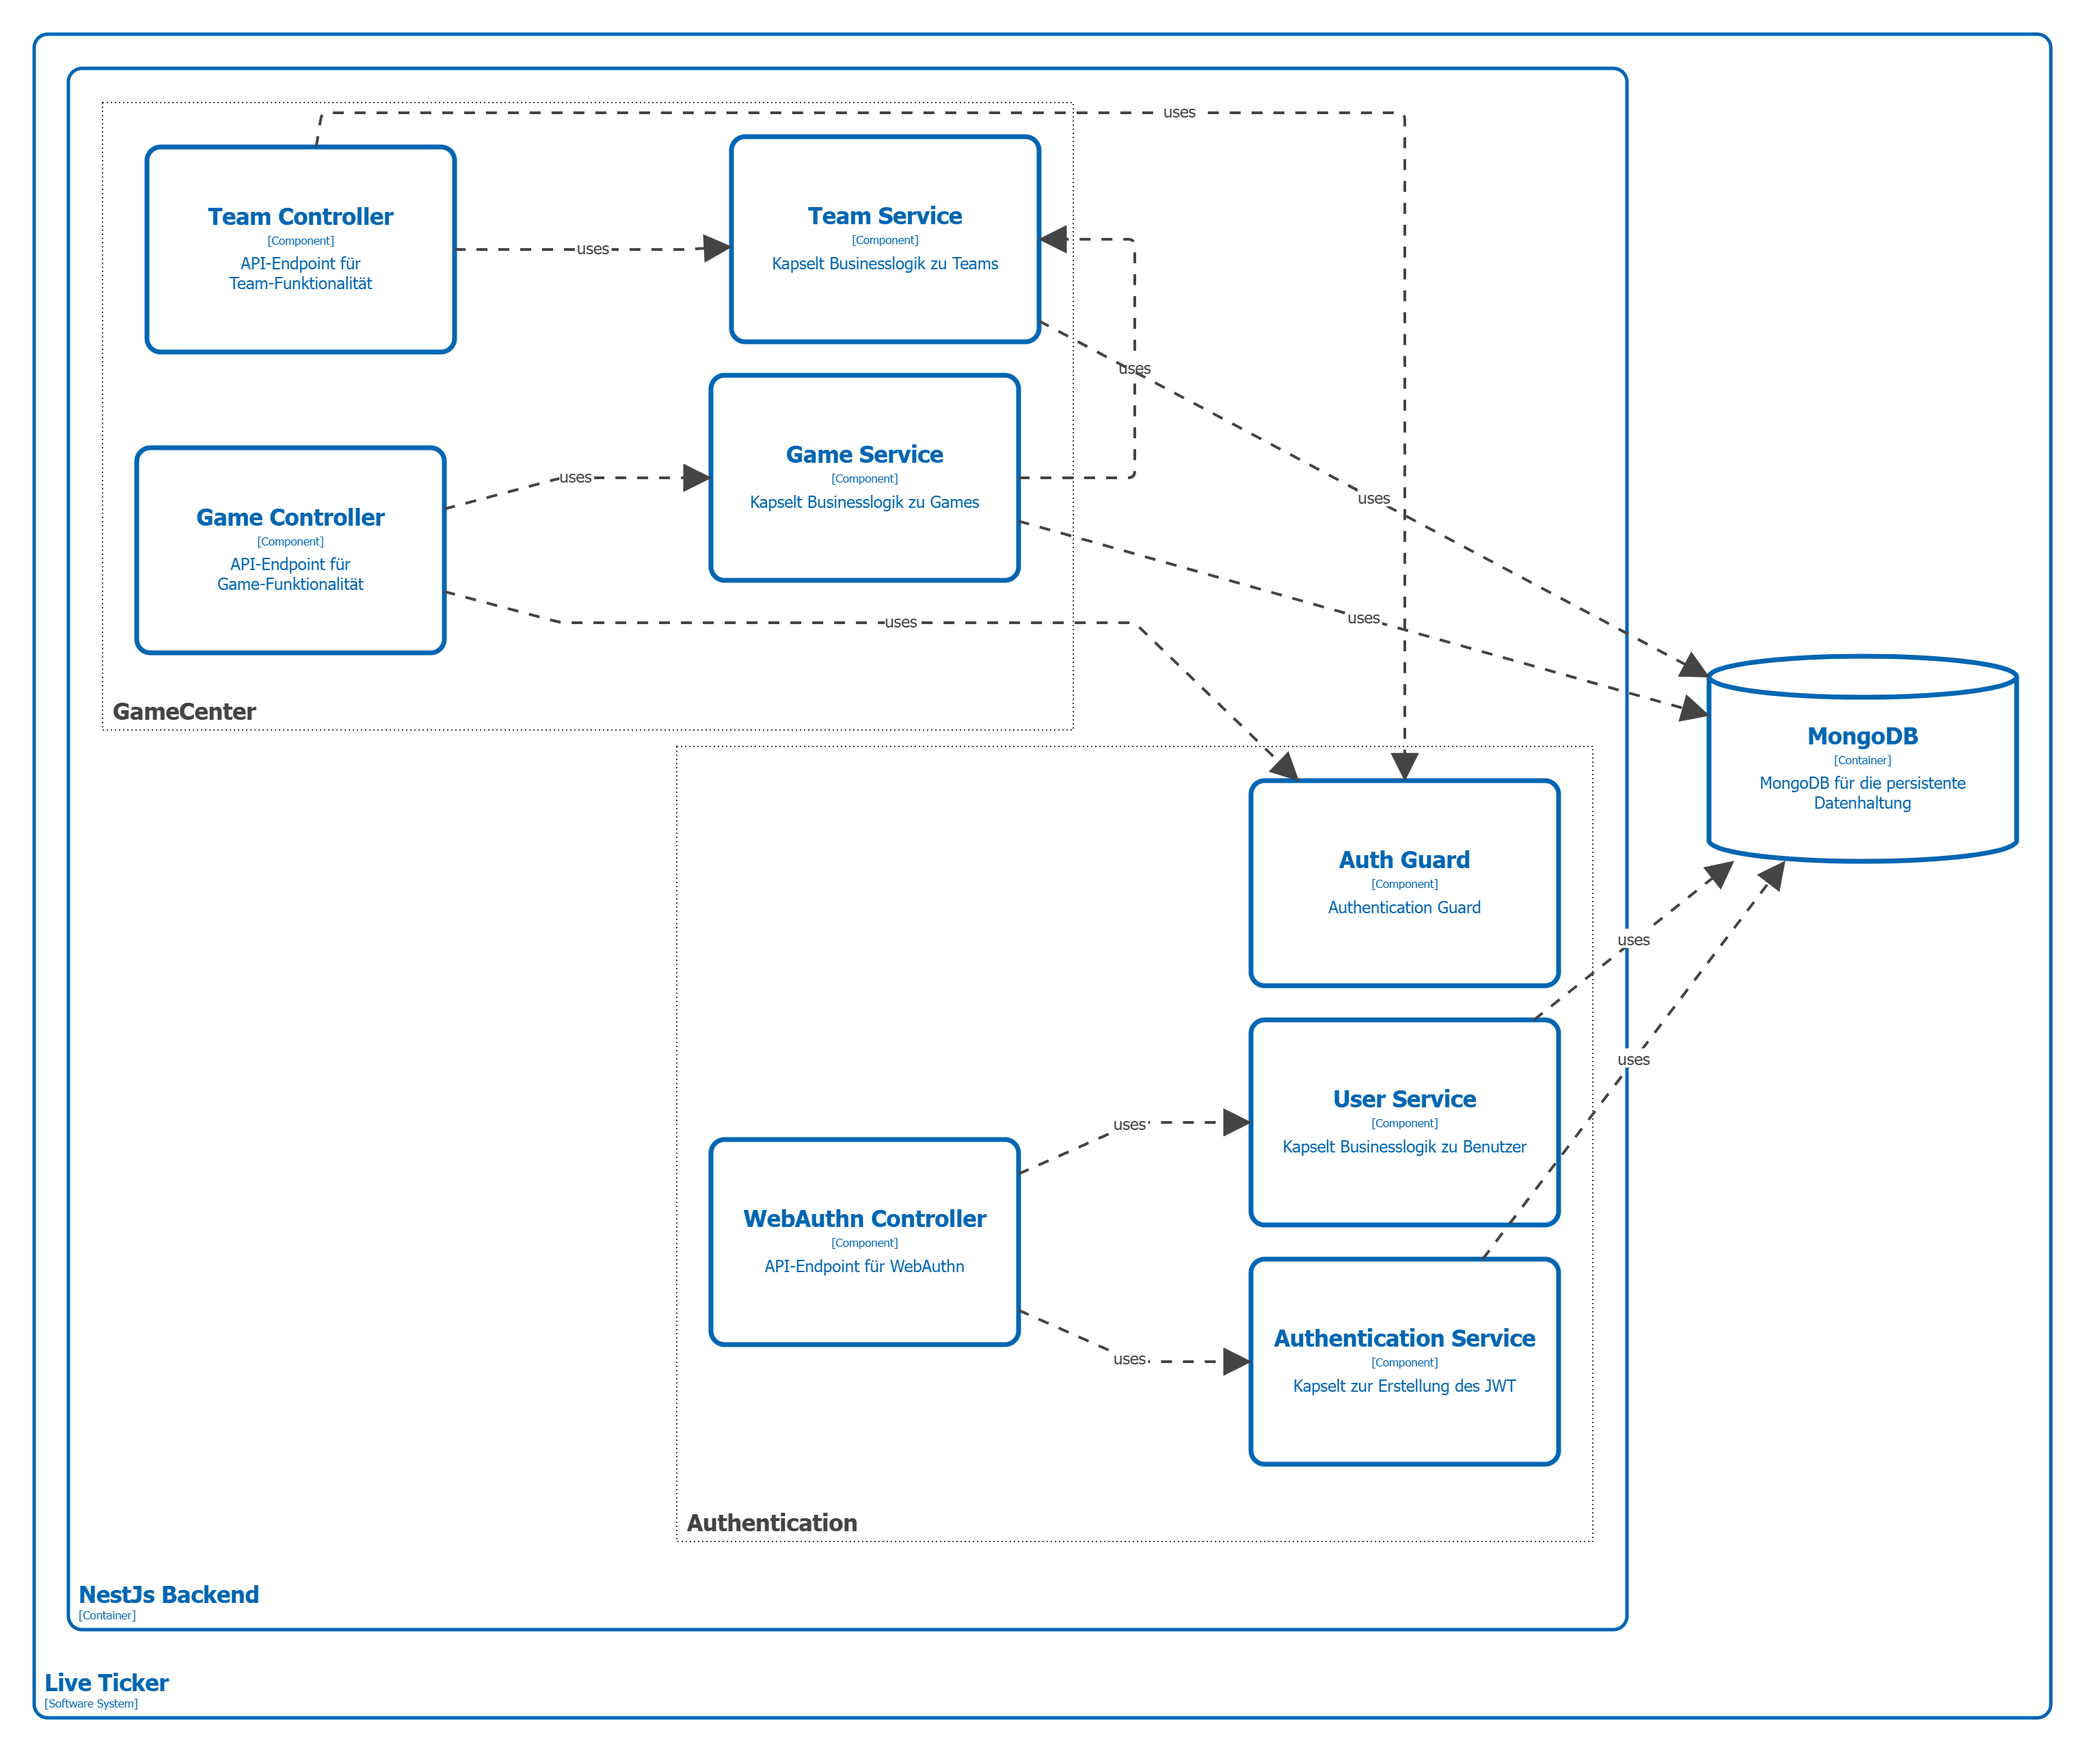
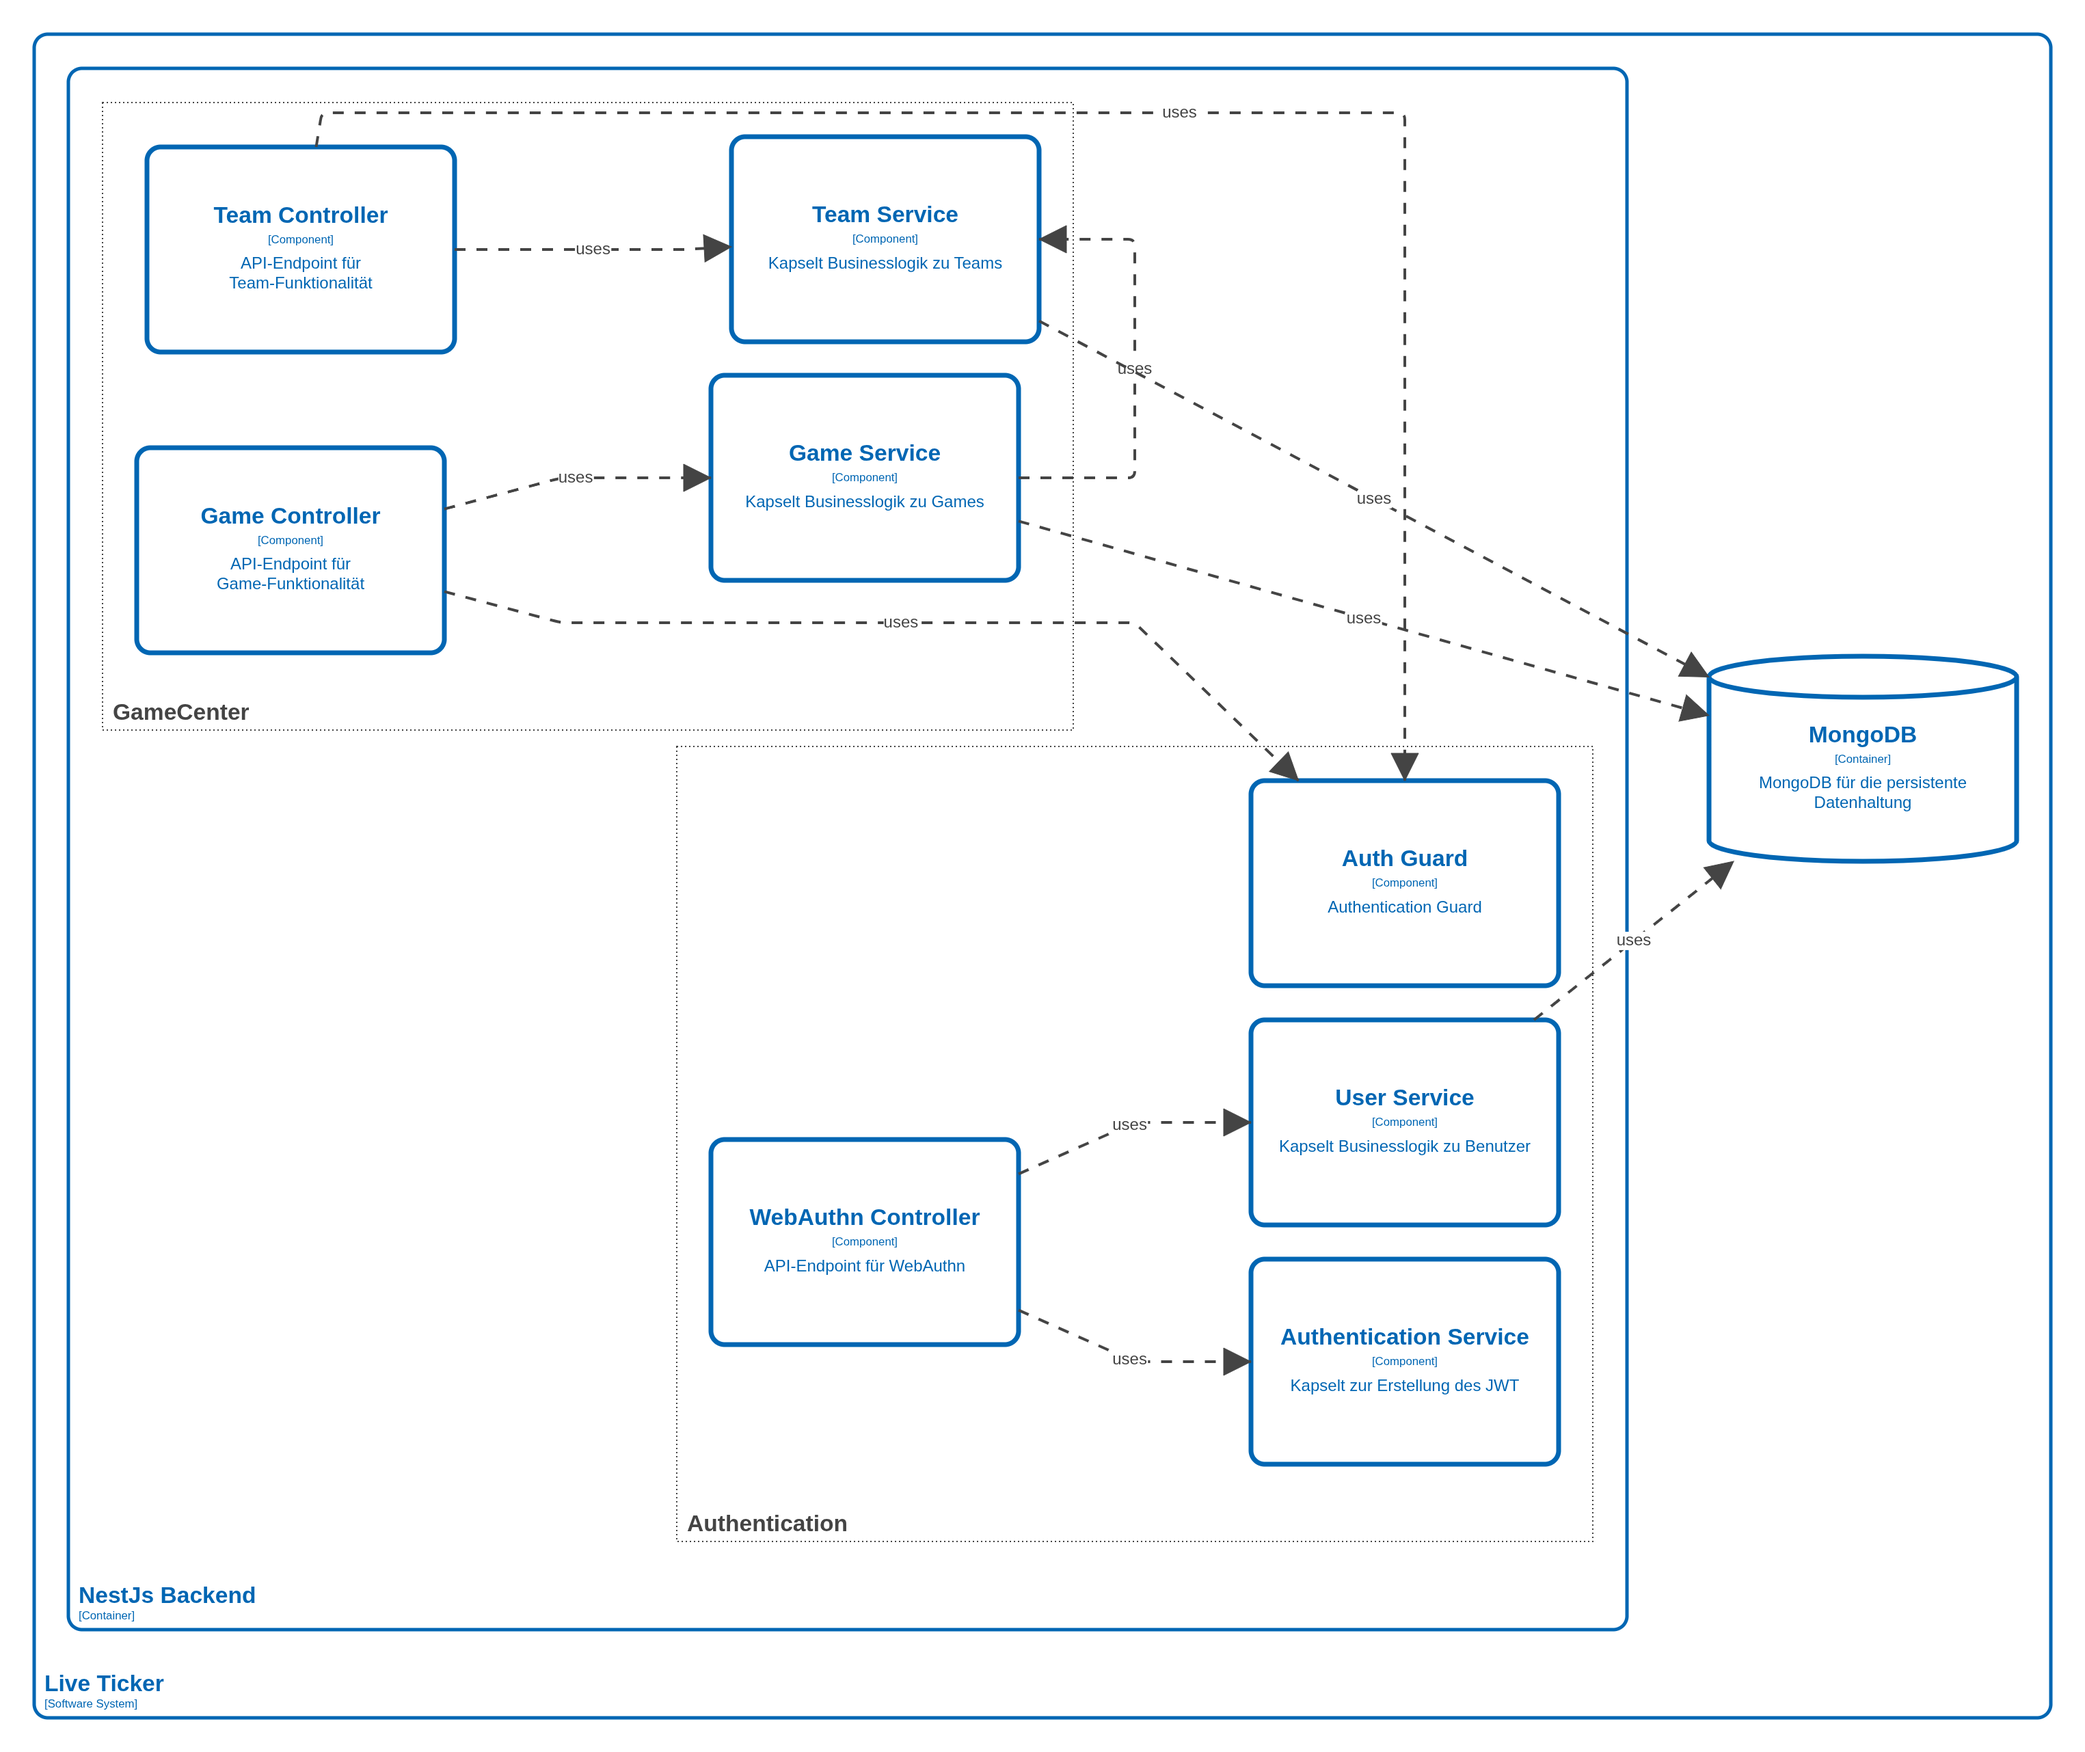
Fix some minor bugs and typos

diff --git a/backend/src/authentication/webauthn.controller.ts b/backend/src/authentication/webauthn.controller.ts
@@ -68,7 +68,7 @@ export class WebAuthNController {
     };
 
     const options = await generateRegistrationOptions(opts);
-    await this.cache.set(`challenge:${username}`, options.challenge, 60_000);
+    await this.cache.set(`reg:challenge:${username}`, options.challenge, 60_000);
     return options;
   }
 
@@ -78,7 +78,7 @@ export class WebAuthNController {
     @Query("username") username: string,
   ) {
     const expectedChallenge = await this.cache.get<string>(
-      `challenge:${username}`,
+      `reg:challenge:${username}`,
     );
 
     let verification: VerifiedRegistrationResponse;
@@ -127,7 +127,7 @@ export class WebAuthNController {
     };
 
     const options = await generateAuthenticationOptions(opts);
-    await this.cache.set(`challenge:${username}`, options.challenge, 60_000);
+    await this.cache.set(`auth:challenge:${username}`, options.challenge, 60_000);
 
     return options;
   }
@@ -138,7 +138,7 @@ export class WebAuthNController {
     @Query("username") username: string,
   ) {
     const expectedChallenge = await this.cache.get<string>(
-      `challenge:${username}`,
+      `auth:challenge:${username}`,
     );
 
     const dbCredential = await this.userService.findCredential(

diff --git a/Arbeitsjournal.md b/Arbeitsjournal.md
@@ -44,3 +44,41 @@
   - Implementation der Game-List-View
   - Implementation der Create-Game
   - Beginn mit der Game-Detail-View
+
+## 10.09.2026
+- **Zeitaufwand: ca. 8h**
+- **Tätigkeit:**
+  - Fertigstellung der Game-Detail-View
+  - Switch auf Lazy-Loading wegen der Bundle-Size
+  - Implementation von Backend-DTO-Validierung
+
+## 11.09.2026
+- **Zeitaufwand: ca. 8h**
+- **Tätigkeit:**
+  - Schreiben von Backend Unit- und Integrationstests
+  - Schreiben von E2E-Test für die Teilbereiche Team und Login
+
+## 14.09.2026
+- **Zeitaufwand: ca. 2h**
+- **Tätigkeit:**
+  - Refactoring der bestehenden E2E-Tests
+  - Beginn mit den E2E-Tests für das Game-Feature
+
+## 15.09.2026
+- **Zeitaufwand: ca. 3h**
+- **Tätigkeit:**
+  - Fertigstellung der E2E-Test des Game-Features
+  - Hinzufügen von den docker-compose Umgebungen von PROD und E2E
+  - Optimierung des Lighthouse-Scores
+
+## 15.09.2026
+- **Zeitaufwand: ca. 5h**
+- **Tätigkeit:**
+  - Schreiben der Kapitel 1,2,3,4,5,7,8,9,11 und 12 der Arc42-Dokumentation
+
+## 15.09.2026
+- **Zeitaufwand: ca. 2h**
+- **Tätigkeit:**
+  - Schreiben der Kapitel 6 und 10 der Arc42-Dokumentation
+  - Fixen von Sicherheits-Bug im WebAuthn-Flow
+  - Fixen von kleineren Bugs

diff --git a/README.md b/README.md
@@ -56,8 +56,3 @@ Then run the Cypress tests:
 cd frontend
 npm run cypress:run
 ```
-
-
-Offen:
-Arbeitsjournal
-Chapter 6
